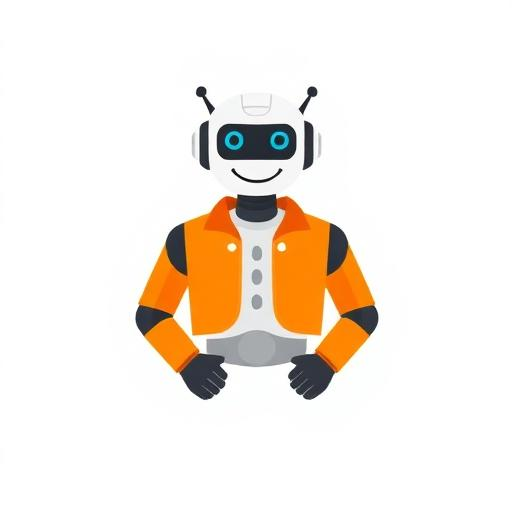
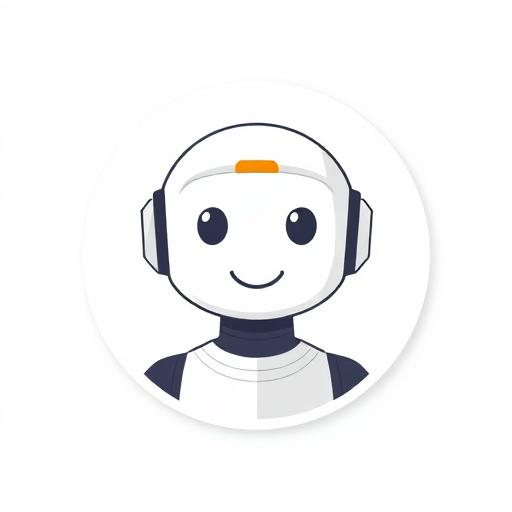
Changes

Changed region(s): [[0.25, 0.1562, 0.7812, 0.8438], [0.7812, 0.5625, 0.8438, 0.6875]]

diff --git a/src/pages/Index.tsx b/src/pages/Index.tsx
@@ -7,7 +7,7 @@ import { Calendar, MessageSquare, Clock, Zap, Shield, Sparkles, Trophy, Flame, S
 import { supabase } from "@/integrations/supabase/client";
 import CountdownTimer from "@/components/CountdownTimer";
 import { useAuth } from "@/hooks/useAuth";
-import scheddyAvatar from "@/assets/scheddy-friendly.svg";
+import scheddyAvatar from "@/assets/scheddy-friendly.png";
 import WaitlistModal from "@/components/WaitlistModal";
 interface Offer {
   id: string;

diff --git a/src/components/AIChatBox.tsx b/src/components/AIChatBox.tsx
@@ -4,7 +4,7 @@ import { Send, User, Loader2, Camera, ImageIcon, X, Sparkles, LogIn } from "luci
 import { toast } from "@/hooks/use-toast";
 import { useAuth } from "@/hooks/useAuth";
 import { Link } from "react-router-dom";
-import scheddyAvatar from "@/assets/scheddy-friendly.svg";
+import scheddyAvatar from "@/assets/scheddy-friendly.png";
 
 interface Message {
   role: "user" | "assistant";

diff --git a/src/components/Footer.tsx b/src/components/Footer.tsx
@@ -1,7 +1,7 @@
 import { Link } from "react-router-dom";
 import { forwardRef } from "react";
 import { Shield } from "lucide-react";
-import scheddyAvatar from "@/assets/scheddy-avatar.svg";
+import scheddyAvatar from "@/assets/scheddy-avatar.png";
 
 const Footer = forwardRef<HTMLElement>((_, ref) => {
   return (

diff --git a/src/components/ScheddyLoader.tsx b/src/components/ScheddyLoader.tsx
@@ -1,4 +1,4 @@
-import scheddyAvatar from "@/assets/scheddy-avatar.svg";
+import scheddyAvatar from "@/assets/scheddy-avatar.png";
 
 const LOADING_PHRASES = [
   "Checking your schedule...",
